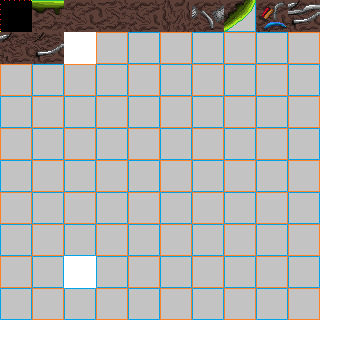
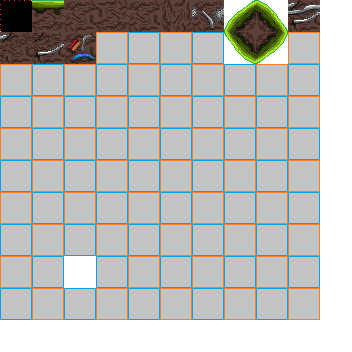
maj map et boss

Changed region(s): [[0.625, 0.0, 0.8438, 0.1875], [0.1562, 0.0938, 0.2812, 0.1875]]

diff --git a/main.py b/main.py
@@ -25,22 +25,18 @@ font_hud = pygame.font.Font(None, 22)
 font_menu = pygame.font.Font(None, 60)
 font_small = pygame.font.Font(None, 30)
 
-# --- CHEMINS DES ASSETS ---
+# --- CHEMINS ---
 ASSETS_DIR = "assets"
 PLAYER_IMG = os.path.join(ASSETS_DIR, "player", "player.png")
 MAP_FILE = os.path.join(ASSETS_DIR, "maps", "map.tmx")
 BOSS_DIR = os.path.join(ASSETS_DIR, "boss", "test")
 
-def load_and_scale(path, scale_factor):
-    """Charge une image et la redimensionne proprement."""
+def load_img(path, scale):
     try:
         img = pygame.image.load(path).convert_alpha()
-        w, h = img.get_size()
-        return pygame.transform.scale(img, (int(w * scale_factor), int(h * scale_factor)))
+        return pygame.transform.scale(img, (int(img.get_width() * scale), int(img.get_height() * scale)))
     except:
-        surf = pygame.Surface((64 * scale_factor, 64 * scale_factor))
-        surf.fill((255, 0, 50)) # Rouge si fichier manquant
-        return surf
+        s = pygame.Surface((64, 64)); s.fill((255, 0, 50)); return s
 
 # =================================================================
 # CLASSE BOSS
@@ -48,16 +44,15 @@ def load_and_scale(path, scale_factor):
 class Boss(pygame.sprite.Sprite):
     def __init__(self, tile_x, tile_y, tile_size):
         super().__init__()
-        self.hp = 20
-        self.active = True
+        self.hp = 50
+        self.is_dead = False
         scale = 3
         
-        # Chargement Attaque : attaque00.png à attaque32.png
-        self.anim_attack = [load_and_scale(os.path.join(BOSS_DIR, f"attaque{i:02d}.png"), scale) for i in range(33)]
-        
-        # Chargement Pause : pause1.png et pause2.png répétés 10 fois
-        p1 = load_and_scale(os.path.join(BOSS_DIR, "pause1.png"), scale)
-        p2 = load_and_scale(os.path.join(BOSS_DIR, "pause2.png"), scale)
+        # Frames d'attaque (0.25s entre chaque)
+        self.anim_attack = [load_img(os.path.join(BOSS_DIR, f"attaque{i:02d}.png"), scale) for i in range(33)]
+        # Frames de pause (0.75s entre chaque)
+        p1 = load_img(os.path.join(BOSS_DIR, "pause1.png"), scale)
+        p2 = load_img(os.path.join(BOSS_DIR, "pause2.png"), scale)
         self.anim_pause = [p1, p2] * 10 
 
         self.current_anim = self.anim_attack
@@ -65,34 +60,35 @@ class Boss(pygame.sprite.Sprite):
         self.frame_index = 0
         self.image = self.current_anim[0]
         self.rect = self.image.get_rect(topleft=(tile_x * tile_size, tile_y * tile_size))
+        self.mask = pygame.mask.from_surface(self.image)
         
         self.vel_y = 0
         self.anim_timer = 0
-        self.hit_shake = 0
+        self.hit_flash = 0
 
     def take_damage(self):
-        self.hp -= 1
-        self.hit_shake = 10 # Effet de tremblement
+        if not self.is_dead:
+            self.hp -= 1
+            self.hit_flash = 5
+            if self.hp <= 0:
+                self.is_dead = True
+                return True # Signal pour le score
+        return False
 
     def update(self, collision_tiles):
-        if not self.active or self.hp <= 0: return
+        if self.is_dead: return
 
-        # Rythme : 0.25s (15 frames) en attaque / 0.75s (45 frames) en pause
-        anim_speed = 15 if self.is_attacking else 45
-
+        speed = 15 if self.is_attacking else 45
         self.anim_timer += 1
-        if self.anim_timer >= anim_speed:
+        if self.anim_timer >= speed:
             self.anim_timer = 0
-            self.frame_index += 1
-            
-            if self.frame_index >= len(self.current_anim):
-                self.frame_index = 0
+            self.frame_index = (self.frame_index + 1) % len(self.current_anim)
+            if self.frame_index == 0:
                 self.is_attacking = not self.is_attacking
                 self.current_anim = self.anim_attack if self.is_attacking else self.anim_pause
-            
             self.image = self.current_anim[self.frame_index]
+            self.mask = pygame.mask.from_surface(self.image)
 
-        # Gravité simple
         self.vel_y += GRAVITY
         self.rect.y += self.vel_y
         for t in collision_tiles:
@@ -100,16 +96,15 @@ class Boss(pygame.sprite.Sprite):
                 if self.vel_y > 0: self.rect.bottom = t.top; self.vel_y = 0
 
     def draw(self, surface, cam_x, cam_y):
-        if self.active and self.hp > 0:
-            draw_x = self.rect.x - cam_x
-            if self.hit_shake > 0:
-                draw_x += math.sin(pygame.time.get_ticks() * 0.5) * 5
-                self.hit_shake -= 1
-            
-            surface.blit(self.image, (draw_x, self.rect.y - cam_y))
-            # Barre de vie
-            pygame.draw.rect(surface, (50, 0, 0), (draw_x, self.rect.y - cam_y - 20, 100, 8))
-            pygame.draw.rect(surface, (0, 255, 120), (draw_x, self.rect.y - cam_y - 20, self.hp * 5, 8))
+        if self.is_dead: return
+        pos = (self.rect.x - cam_x, self.rect.y - cam_y)
+        if self.hit_flash > 0:
+            flash_surf = self.image.copy()
+            flash_surf.fill((255, 255, 255, 255), special_flags=pygame.BLEND_RGBA_MULT)
+            surface.blit(flash_surf, pos)
+            self.hit_flash -= 1
+        else:
+            surface.blit(self.image, pos)
 
 # =================================================================
 # CLASSE JOUEUR
@@ -117,36 +112,52 @@ class Boss(pygame.sprite.Sprite):
 class Player(pygame.sprite.Sprite):
     def __init__(self, x, y):
         super().__init__()
-        self.image = load_and_scale(PLAYER_IMG, 1)
+        self.image = load_img(PLAYER_IMG, 1)
         self.rect = self.image.get_rect(topleft=(x, y))
+        self.mask = pygame.mask.from_surface(self.image)
+        self.hp = 20
+        self.max_hp = 20
+        self.score = 0
+        self.invul_timer = 0
         self.vel_x, self.vel_y = 0, 0
+        self.facing_right = True
         self.on_ground = False
         self.is_on_wall = False
-        self.facing_right = True
         self.dash_cooldown = 0
         self.dash_timer = 0
         self.is_attacking = False
-        self.attack_duration = 0
-        self.attack_rect = pygame.Rect(0, 0, 60, 60)
+        self.atk_frame = 0
 
     def update(self, collision_tiles, jump_tiles, boss):
         keys = pygame.key.get_pressed()
         
-        # --- ATTAQUE ---
-        if (keys[K_x] or keys[K_c]) and self.attack_duration <= 0:
+        # Dégâts par seconde au contact du masque du boss
+        if self.invul_timer > 0: self.invul_timer -= 1
+        if not boss.is_dead:
+            offset = (boss.rect.x - self.rect.x, boss.rect.y - self.rect.y)
+            if self.mask.overlap(boss.mask, offset) and self.invul_timer <= 0:
+                self.hp -= 1
+                self.invul_timer = 60 
+
+        # Attaque stylée (Arc de cercle)
+        if (keys[K_x] or keys[K_c]) and not self.is_attacking:
             self.is_attacking = True
-            self.attack_duration = 20 # Durée de la hitbox
-            if self.facing_right: self.attack_rect.midleft = self.rect.midright
-            else: self.attack_rect.midright = self.rect.midleft
+            self.atk_frame = 12
+            atk_rect = pygame.Rect(0, 0, 80, 80)
+            if self.facing_right: atk_rect.midleft = self.rect.midright
+            else: atk_rect.midright = self.rect.midleft
             
-            if boss.active and self.attack_rect.colliderect(boss.rect):
-                boss.take_damage()
+            if not boss.is_dead:
+                atk_offset = (boss.rect.x - atk_rect.x, boss.rect.y - atk_rect.y)
+                atk_mask = pygame.mask.Mask((80, 80)); atk_mask.fill()
+                if atk_mask.overlap(boss.mask, atk_offset):
+                    if boss.take_damage(): self.score += 1
 
-        if self.attack_duration > 0:
-            self.attack_duration -= 1
-            if self.attack_duration <= 0: self.is_attacking = False
+        if self.is_attacking:
+            self.atk_frame -= 1
+            if self.atk_frame <= 0: self.is_attacking = False
 
-        # --- MOUVEMENTS & DASH ---
+        # Dash & Physique
         if self.dash_cooldown > 0: self.dash_cooldown -= 1
         if keys[K_a] and self.dash_cooldown == 0:
             self.dash_timer, self.dash_cooldown = DASH_DURATION, DASH_COOLDOWN
@@ -170,38 +181,42 @@ class Player(pygame.sprite.Sprite):
             self.vel_y = JUMP_BIG if can_jump_big else JUMP_SMALL
             self.on_ground = False
 
-        # --- COLLISIONS ---
-        self.is_on_wall = False
-        wall_check = self.rect.inflate(4, 0)
-        if not self.on_ground:
-            for t in collision_tiles:
-                if wall_check.colliderect(t): self.is_on_wall = True; break
-
+        # Collisions horizontales
         self.rect.x += self.vel_x
         for t in collision_tiles:
             if self.rect.colliderect(t):
                 if self.vel_x > 0: self.rect.right = t.left
                 else: self.rect.left = t.right
         
+        # Collisions verticales
         self.rect.y += self.vel_y
         self.on_ground = False
+        self.is_on_wall = False
         for t in collision_tiles:
             if self.rect.colliderect(t):
                 if self.vel_y > 0: self.rect.bottom = t.top; self.vel_y, self.on_ground = 0, True
                 else: self.rect.top = t.bottom; self.vel_y = 0
+        
+        if not self.on_ground:
+            wall_check = self.rect.inflate(4, 0)
+            for t in collision_tiles:
+                if wall_check.colliderect(t): self.is_on_wall = True; break
 
     def draw(self, surface, cam_x, cam_y):
-        surface.blit(self.image, (self.rect.x - cam_x, self.rect.y - cam_y))
+        pos = (self.rect.x - cam_x, self.rect.y - cam_y)
+        if self.invul_timer % 10 < 5: surface.blit(self.image, pos)
         if self.is_attacking:
-            pygame.draw.rect(surface, (255, 255, 255), (self.attack_rect.x - cam_x, self.attack_rect.y - cam_y, 60, 60), 2)
+            color = (0, 255, 255)
+            r_atk = pygame.Rect(pos[0] + (20 if self.facing_right else -60), pos[1] - 10, 50, 50)
+            pygame.draw.arc(surface, color, r_atk, -math.pi/2 if self.facing_right else math.pi/2, math.pi/2 if self.facing_right else 3*math.pi/2, 4)
 
 # =================================================================
-# SYSTÈME DE MENU
+# SYSTÈME DE PAUSE STYLISÉ
 # =================================================================
 def show_pause_menu():
     paused = True
     selected = 0
-    options = ["REPRENDRE", "AIDE ET REGLES", "QUITTER"]
+    options = ["REPRENDRE", "AIDE", "QUITTER"]
     overlay = pygame.Surface(INTERNAL_RES, pygame.SRCALPHA)
     overlay.fill((0, 0, 0, 200))
 
@@ -214,31 +229,24 @@ def show_pause_menu():
                 if event.key == K_DOWN: selected = (selected + 1) % len(options)
                 if event.key == K_RETURN:
                     if selected == 0: paused = False
-                    if selected == 1: pass # Aide
                     if selected == 2: pygame.quit(); exit()
 
         render_surface.blit(overlay, (0,0))
         for i, opt in enumerate(options):
             color = (0, 255, 200) if i == selected else (255, 255, 255)
-            prefix = "> " if i == selected else "  "
-            txt = font_small.render(prefix + opt, True, color)
-            render_surface.blit(txt, (INTERNAL_RES[0]//2 - 100, 240 + i * 50))
-        
+            txt = font_small.render("> " + opt if i == selected else opt, True, color)
+            render_surface.blit(txt, (INTERNAL_RES[0]//2 - txt.get_width()//2, 250 + i * 50))
         screen.blit(pygame.transform.scale(render_surface, (WIN_W, WIN_H)), (0,0))
         pygame.display.flip()
         clock.tick(30)
 
 # =================================================================
-# BOUCLE PRINCIPALE
+# MAIN LOOP
 # =================================================================
 def main():
-    try:
-        tmx_data = pytmx.load_pygame(MAP_FILE)
-    except:
-        print("Erreur : Fichier TMX introuvable."); return
-
+    tmx_data = pytmx.load_pygame(MAP_FILE)
     player = Player(100, 100)
-    boss = Boss(30, 20, 32) # Coordonnées tuiles (30, 20)
+    boss = Boss(30, 20, 32)
     
     collision_tiles = []
     jump_tiles = []
@@ -255,18 +263,15 @@ def main():
             if event.type == QUIT: pygame.quit(); exit()
             if event.type == KEYDOWN and event.key == K_ESCAPE: show_pause_menu()
 
-        # Update
         player.update(collision_tiles, jump_tiles, boss)
         boss.update(collision_tiles)
         
-        # Caméra
         cam_x = max(0, min(player.rect.centerx - 400, tmx_data.width * 32 - 800))
         cam_y = max(0, min(player.rect.centery - 300, tmx_data.height * 32 - 600))
 
-        # Dessin
-        render_surface.fill((25, 25, 30))
+        render_surface.fill((20, 20, 25))
         
-        # Rendu Map (Culling)
+        # Rendu Map avec Culling
         start_x, end_x = int(cam_x // 32), int((cam_x + 800) // 32) + 1
         start_y, end_y = int(cam_y // 32), int((cam_y + 600) // 32) + 1
         for layer in tmx_data.visible_layers:
@@ -275,22 +280,27 @@ def main():
                     for y in range(start_y, end_y):
                         if 0 <= x < tmx_data.width and 0 <= y < tmx_data.height:
                             gid = layer.data[y][x]
-                            if gid:
-                                img = tmx_data.get_tile_image_by_gid(gid)
-                                if img: render_surface.blit(img, (x*32 - cam_x, y*32 - cam_y))
+                            if gid: render_surface.blit(tmx_data.get_tile_image_by_gid(gid), (x*32 - cam_x, y*32 - cam_y))
 
         boss.draw(render_surface, cam_x, cam_y)
         player.draw(render_surface, cam_x, cam_y)
 
-        # HUD (Haut à droite)
-        stats = [f"FPS: {int(clock.get_fps())}", 
-                 f"TUILE: {player.rect.x//32}, {player.rect.y//32}", 
-                 f"BOSS HP: {boss.hp}"]
-        for i, s in enumerate(stats):
-            txt = font_hud.render(s, True, (0, 255, 180))
+        # --- HUD BAS MILIEU ---
+        hud_cx, hud_y = INTERNAL_RES[0] // 2, INTERNAL_RES[1] - 50
+        txt_lvl = font_small.render(f"NIVEAU : {player.score}", True, (255, 255, 255))
+        render_surface.blit(txt_lvl, (hud_cx - txt_lvl.get_width()//2, hud_y - 30))
+        
+        bar_w, bar_h = 200, 15
+        pygame.draw.rect(render_surface, (50, 0, 0), (hud_cx - bar_w//2, hud_y, bar_w, bar_h))
+        pygame.draw.rect(render_surface, (0, 255, 100), (hud_cx - bar_w//2, hud_y, int(bar_w * (player.hp/player.max_hp)), bar_h))
+        pygame.draw.rect(render_surface, (255, 255, 255), (hud_cx - bar_w//2, hud_y, bar_w, bar_h), 1)
+
+        # HUD HAUT DROITE
+        tech_stats = [f"FPS: {int(clock.get_fps())}", f"COORDS: {player.rect.x//32}, {player.rect.y//32}"]
+        for i, s in enumerate(tech_stats):
+            txt = font_hud.render(s, True, (0, 255, 150))
             render_surface.blit(txt, (INTERNAL_RES[0] - txt.get_width() - 15, 15 + i * 20))
 
-        # Affichage Final
         screen.blit(pygame.transform.scale(render_surface, (WIN_W, WIN_H)), (0,0))
         pygame.display.flip()
         clock.tick(FPS)
